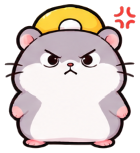
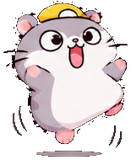
Add hamster hover curious face and typing micro-interaction, replace angry talking face with happy cheering and jumping poses, and ensure walks/runs only

diff --git a/src/ui/CharacterGuides.tsx b/src/ui/CharacterGuides.tsx
@@ -119,6 +119,8 @@ export function CharacterGuides({ groups, group, studentId, competitionId, stude
   const [racing, setRacing] = useState(false);
   const [winner, setWinner] = useState<MascotWinner>("none");
   const [raceCount, setRaceCount] = useState(0);
+  const [guideHovered, setGuideHovered] = useState(false);
+  const [explainerHovered, setExplainerHovered] = useState(false);
   const [viewportMetrics, setViewportMetrics] = useState({ vvHeight: 900, keyboardInset: 0 });
   const traveler = useRef<HTMLDivElement>(null);
   const explainerRoamer = useRef<HTMLButtonElement>(null);
@@ -265,10 +267,10 @@ export function CharacterGuides({ groups, group, studentId, competitionId, stude
   const arguing = activeScene === "rivalry" && !traveling && !fighting;
 
   useEffect(() => {
-    if (!traveling && !arguing) { setExplainerStep(0); return; }
-    const timer = window.setInterval(() => setExplainerStep((value) => 1 - value), traveling ? 170 : 420);
+    if (!traveling && !arguing && !racing) { setExplainerStep(0); return; }
+    const timer = window.setInterval(() => setExplainerStep((value) => 1 - value), (traveling || racing) ? 140 : 380);
     return () => window.clearInterval(timer);
-  }, [traveling, arguing]);
+  }, [traveling, arguing, racing]);
 
   useLayoutEffect(() => {
     if (open && !previousOpen.current) panel.current?.querySelector<HTMLElement>("textarea")?.focus({ preventScroll: true });
@@ -341,7 +343,7 @@ export function CharacterGuides({ groups, group, studentId, competitionId, stude
       setFace(faceSignForDelta(dx, -1));
       animation = element.animate([{ transform: startTransform }, { transform: to }],
         { duration: competitionId ? 420 : 700, easing: "cubic-bezier(.23, 1, .32, 1)" });
-      setTraveling(!competitionId);
+      setTraveling(true);
       void animation.finished.then(() => {
         setFace(asideX <= innerWidth * 0.55 ? -1 : 1);
         setTraveling(false);
@@ -702,6 +704,7 @@ export function CharacterGuides({ groups, group, studentId, competitionId, stude
         scene: activeScene,
         arguing,
         jumping: false,
+        hovered: guideHovered,
       });
   const primaryMascot = ENABLE_ORANGE_HAMSTER ? "guide" : "explainer";
   const activeExplainerMascot = ENABLE_ORANGE_HAMSTER
@@ -770,6 +773,7 @@ export function CharacterGuides({ groups, group, studentId, competitionId, stude
     scene: activeScene,
     arguing,
     jumping: false,
+    hovered: explainerHovered,
   });
   const guideTalking = !wander.moving && (open || chat.loading || arguing);
   const explainerTalking = !traveling && Boolean(group && !competitionId && !exiting && (!typed.done || arguing));
@@ -789,6 +793,7 @@ export function CharacterGuides({ groups, group, studentId, competitionId, stude
     <button ref={launcher} className="guide-launcher" aria-expanded={open} aria-controls="guide-panel" aria-label={open ? "ย่อ Guide" : "เปิด Guide"}
       data-moving={wander.moving || racing || runningToFight} data-talking={guideTalking} data-pose={guidePose} data-facing={facingLabel(wander.face)}
       data-dragging={dragging ? "true" : undefined}
+      data-hovered={guideHovered ? "true" : undefined}
       data-hidden-in-fight={guideOnStage ? "true" : undefined}
       aria-hidden={guideOnStage || undefined}
       tabIndex={guideOnStage ? -1 : undefined}
@@ -797,8 +802,17 @@ export function CharacterGuides({ groups, group, studentId, competitionId, stude
       onPointerMove={handleLauncherPointerMove}
       onPointerUp={finishLauncherDrag}
       onPointerCancel={finishLauncherDrag}
+      onPointerEnter={(e) => { if (e.pointerType !== "touch") setGuideHovered(true); }}
+      onPointerLeave={() => setGuideHovered(false)}
       onDragStart={(event) => event.preventDefault()}
       onClick={handleLauncherClick}>
+      {guideHovered && !wander.moving && !open && (
+        <span className="guide-hover-bubble" aria-hidden="true">
+          <span className="typing-dot" />
+          <span className="typing-dot" />
+          <span className="typing-dot" />
+        </span>
+      )}
       <img src={mascotSpritePath(primaryMascot, guidePose)} alt="" draggable={false}
         style={{ transform: `scaleX(${wander.face})` }} />
     </button>
@@ -845,7 +859,9 @@ export function CharacterGuides({ groups, group, studentId, competitionId, stude
       data-traveling={traveling}
       data-talking={explainerTalking} data-pose={explainerPose} data-facing={facingLabel(face)}
       data-guiding-tap={guidingTap ? "true" : undefined}
-      aria-hidden={!group || Boolean(competitionId) || exiting}>
+      aria-hidden={!group || Boolean(competitionId) || exiting}
+      onPointerEnter={(e) => { if (e.pointerType !== "touch") setExplainerHovered(true); }}
+      onPointerLeave={() => setExplainerHovered(false)}>
       <img className="explainer__body" src={mascotSpritePath(activeExplainerMascot, explainerPose)}
         alt={activeExplainerMascot === "guide" ? "Guide แฮมสเตอร์สีส้ม" : "Explainer แฮมสเตอร์หมวกเหลือง"}
         style={{ transform: `scaleX(${face})` }} />

diff --git a/src/ui/guides.css b/src/ui/guides.css
@@ -107,6 +107,55 @@
 .guide-launcher[data-moving=true] { transition-timing-function: linear; }
 .guide-launcher[data-dragging=true] { cursor: grabbing; }
 .guide-launcher:hover { transform: none; }
+.guide-launcher[data-hovered=true] { filter: drop-shadow(0 8px 14px rgba(6, 19, 38, 0.45)); }
+.guide-hover-bubble {
+  position: absolute;
+  bottom: calc(100% + 4px);
+  left: 50%;
+  transform: translateX(-50%);
+  padding: 5px 10px;
+  background: #0d1b30f5;
+  border: 1px solid rgba(186, 214, 240, 0.24);
+  border-radius: 999px;
+  box-shadow: 0 6px 16px rgba(3, 10, 22, 0.4);
+  display: inline-flex;
+  align-items: center;
+  justify-content: center;
+  gap: 3px;
+  pointer-events: none;
+  z-index: 10;
+  animation: hover-bubble-pop 160ms cubic-bezier(.17, .89, .32, 1.28);
+}
+.guide-hover-bubble::after {
+  content: "";
+  position: absolute;
+  bottom: -4px;
+  left: 50%;
+  transform: translateX(-50%) rotate(45deg);
+  width: 7px;
+  height: 7px;
+  background: #0d1b30f5;
+  border-right: 1px solid rgba(186, 214, 240, 0.24);
+  border-bottom: 1px solid rgba(186, 214, 240, 0.24);
+}
+.guide-hover-bubble .typing-dot {
+  width: 4px;
+  height: 4px;
+  border-radius: 50%;
+  background: #93c5fd;
+  display: inline-block;
+  animation: dot-pulse 900ms ease-in-out infinite;
+}
+.guide-hover-bubble .typing-dot:nth-child(2) { animation-delay: 160ms; }
+.guide-hover-bubble .typing-dot:nth-child(3) { animation-delay: 320ms; }
+@keyframes hover-bubble-pop {
+  from { opacity: 0; transform: translateX(-50%) translateY(4px) scale(0.85); }
+  to { opacity: 1; transform: translateX(-50%) translateY(0) scale(1); }
+}
+@keyframes dot-pulse {
+  0%, 80%, 100% { opacity: 0.3; transform: scale(0.85); }
+  40% { opacity: 1; transform: scale(1.2); }
+}
 .guide-launcher img { transform-origin: 50% 90%; transition: transform 120ms; user-select: none; -webkit-user-drag: none; }
 .guide-launcher[data-moving=true] img { animation: hamster-bob 380ms ease-in-out infinite; }
 .guide-launcher[data-dragging=true] img { transform-origin: 50% 50%; animation: hamster-roll 520ms linear infinite; }

diff --git a/src/ui/mascotChoreography.test.ts b/src/ui/mascotChoreography.test.ts
@@ -19,18 +19,22 @@ test("faceSignForDelta mirrors left-facing sprites when moving right and preserv
   assert.equal(faceSignForDelta(0, 1), 1);
 });
 
-test("selectGuidePose and selectExplainerPose cover back, jump, argue, talk, walk1/walk2 and pet", () => {
+test("selectGuidePose and selectExplainerPose cover walk1/walk2, jump, argue, talk, curious and pet", () => {
   assert.equal(
     selectGuidePose({ moving: false, step: 0, dx: 0, dy: 0, open: false, scene: "rivalry", arguing: true, jumping: true }),
     "jump",
   );
   assert.equal(
     selectGuidePose({ moving: true, step: 0, dx: 10, dy: -80, open: false, scene: "tour", arguing: false }),
-    "back",
+    "walk1",
   );
   assert.equal(
     selectGuidePose({ moving: true, step: 1, dx: 80, dy: -10, open: false, scene: "tour", arguing: false }),
     "walk2",
+  );
+  assert.equal(
+    selectGuidePose({ moving: false, step: 0, dx: 0, dy: 0, open: false, scene: "tour", arguing: false, hovered: true }),
+    "curious",
   );
   assert.equal(
     selectGuidePose({ moving: false, step: 0, dx: 0, dy: 0, open: false, scene: "rivalry", arguing: true }),
@@ -49,8 +53,12 @@ test("selectGuidePose and selectExplainerPose cover back, jump, argue, talk, wal
     "talk",
   );
   assert.equal(
+    selectExplainerPose({ traveling: false, step: 0, dx: 0, dy: 0, typing: false, scene: "tour", arguing: false, hovered: true }),
+    "curious",
+  );
+  assert.equal(
     selectExplainerPose({ traveling: true, step: 0, dx: 5, dy: -90, typing: false, scene: "rivalry", arguing: false }),
-    "back",
+    "walk1",
   );
 });
 

diff --git a/src/ui/mascotChoreography.ts b/src/ui/mascotChoreography.ts
@@ -42,14 +42,13 @@ export function selectGuidePose(options: {
   scene: MascotScene;
   arguing: boolean;
   jumping?: boolean;
+  hovered?: boolean;
 }): MascotPose {
   if (options.jumping) return "jump";
   if (options.moving) {
-    if (options.dy < -36 && Math.abs(options.dy) > Math.abs(options.dx) * 1.15) {
-      return "back";
-    }
     return options.step % 2 === 0 ? "walk1" : "walk2";
   }
+  if (options.hovered && !options.open) return "curious";
   if (options.open) return "talk";
   if (options.scene === "rivalry" && options.arguing) return "argue";
   return "pet";
@@ -64,18 +63,17 @@ export function selectExplainerPose(options: {
   scene: MascotScene;
   arguing: boolean;
   jumping?: boolean;
+  hovered?: boolean;
 }): MascotPose {
   if (options.jumping) return "jump";
   if (options.traveling) {
-    if (options.dy < -36 && Math.abs(options.dy) > Math.abs(options.dx) * 1.15) {
-      return "back";
-    }
     return options.step % 2 === 0 ? "walk1" : "walk2";
   }
+  if (options.hovered && !options.typing) return "curious";
   if (options.scene === "rivalry" && options.arguing) {
     return options.typing && options.step % 2 === 1 ? "talk" : "argue";
   }
-  if (options.typing) return "talk";
+  if (options.typing) return options.step % 2 === 1 ? "talk" : "argue";
   return "pet";
 }
 

diff --git a/tests/character-guides.spec.ts b/tests/character-guides.spec.ts
@@ -285,3 +285,25 @@ test("only Grey Explainer appears on welcome and province stages when Orange is 
   await expect(page.locator('img[src*="guide-"]')).toHaveCount(0);
   await expect(page.locator(".guide-launcher")).toHaveAttribute("data-hidden-in-fight", "true");
 });
+
+test("hovering the hamster plays curious face and displays typing bubble", async ({ page }) => {
+  await page.setViewportSize({ width: 1440, height: 844 });
+  await page.goto("/");
+  const launcher = page.locator(".guide-launcher");
+  await expect(launcher).toBeVisible();
+
+  // Hover over the launcher
+  await launcher.hover();
+  await expect(launcher).toHaveAttribute("data-hovered", "true");
+  await expect(launcher).toHaveAttribute("data-pose", "curious");
+  await expect(launcher.locator("img")).toHaveAttribute("src", /explainer-curious\.png$/);
+  const bubble = launcher.locator(".guide-hover-bubble");
+  await expect(bubble).toBeVisible();
+  await expect(bubble.locator(".typing-dot")).toHaveCount(3);
+  await page.screenshot({ path: test.info().outputPath("hamster-hover.png") });
+
+  // Move mouse away to clear hover
+  await page.mouse.move(100, 100);
+  await expect(launcher).not.toHaveAttribute("data-hovered", "true");
+  await expect(bubble).toHaveCount(0);
+});

diff --git a/src/ui/mascotSprites.test.ts b/src/ui/mascotSprites.test.ts
@@ -5,7 +5,7 @@ import { test } from "node:test";
 import { FIGHT_FRAMES, MASCOT_POSES, mascotSpritePath } from "./mascotSprites";
 
 test("all mascot pose sprite paths resolve to existing non-empty PNG files in public/demo", () => {
-  assert.deepEqual(MASCOT_POSES, ["pet", "walk1", "walk2", "talk", "back", "jump", "argue", "cry", "roll"]);
+  assert.deepEqual(MASCOT_POSES, ["pet", "walk1", "walk2", "talk", "back", "jump", "argue", "cry", "roll", "curious"]);
   for (const mascot of ["guide", "explainer"] as const) {
     for (const pose of MASCOT_POSES) {
       const url = mascotSpritePath(mascot, pose);

diff --git a/src/ui/mascotSprites.ts b/src/ui/mascotSprites.ts
@@ -1,5 +1,5 @@
 export type MascotId = "guide" | "explainer";
-export type MascotPose = "pet" | "walk1" | "walk2" | "talk" | "back" | "jump" | "argue" | "cry" | "roll";
+export type MascotPose = "pet" | "walk1" | "walk2" | "talk" | "back" | "jump" | "argue" | "cry" | "roll" | "curious";
 
 export const MASCOT_POSES: readonly MascotPose[] = [
   "pet",
@@ -11,6 +11,7 @@ export const MASCOT_POSES: readonly MascotPose[] = [
   "argue",
   "cry",
   "roll",
+  "curious",
 ];
 
 export const FIGHT_FRAMES = [
